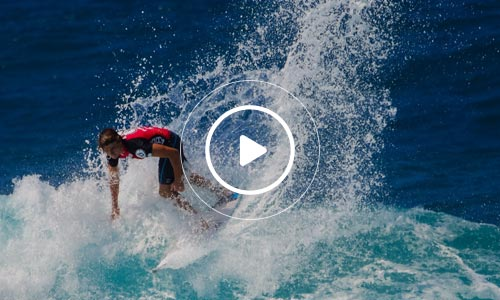
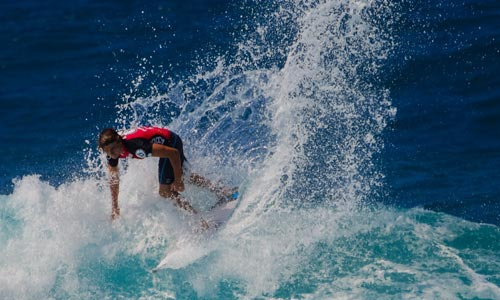
add team and change about us playbutton

diff --git a/src/assets/scss/base/_icomoon.scss b/src/assets/scss/base/_icomoon.scss
@@ -1,16 +1,16 @@
 @font-face {
   font-family: 'icomoon';
-  src:  url('../fonts/icomoon.eot?obxyd4');
-  src:  url('../fonts/icomoon.eot?obxyd4#iefix') format('embedded-opentype'),
-    url('../fonts/icomoon.ttf?obxyd4') format('truetype'),
-    url('../fonts/icomoon.woff?obxyd4') format('woff'),
-    url('../fonts/icomoon.svg?obxyd4#icomoon') format('svg');
+  src:  url('../fonts//icomoon.eot?4slwdr');
+  src:  url('../fonts//icomoon.eot?4slwdr#iefix') format('embedded-opentype'),
+    url('../fonts//icomoon.ttf?4slwdr') format('truetype'),
+    url('../fonts//icomoon.woff?4slwdr') format('woff'),
+    url('../fonts//icomoon.svg?4slwdr#icomoon') format('svg');
   font-weight: normal;
   font-style: normal;
 }
 
 [class^="icon-"], [class*=" icon-"] {
-  /* use !important to prevent issues with browser extensions that change fonts */
+  /* use !important to prevent issues with browser extensions that change ../fonts/ */
   font-family: 'icomoon' !important;
   speak: none;
   font-style: normal;
@@ -47,6 +47,9 @@
 }
 .icon-cross:before {
   content: "\ea0f";
+}
+.icon-play2:before {
+  content: "\ea15";
 }
 .icon-arrow-right2:before {
   content: "\ea3c";

diff --git a/src/assets/scss/layout/_about-us.scss b/src/assets/scss/layout/_about-us.scss
@@ -45,10 +45,45 @@
 
     .video-holder{
       margin-top: 18.625rem;
-      @include box-shadow(0, 1px, 5px, rgba(77, 77, 77, 0.5));
+      display: flex;
+      justify-content: center;
+      align-items: center;
+      overflow: hidden;
+
+      img{
+        @include transition(all, ease-in-out, 0.4s);
+      }
+
 
       @include media('screen', '<tablet') {
         margin-top: 0;
+      }
+
+      .play-button-holder{
+        position: absolute;
+        z-index: 10;
+        font-size: 4rem;
+      }
+
+      .play-button{
+        color: $white;
+        padding: 1rem;
+        border: 2px solid $white;
+        border-radius: 50%;
+        @include transition(all, ease-in-out, 0.4s);
+        @include box-shadow(0, 1px, 5px, rgba(77, 77, 77, 0.5));
+      }
+
+      &:hover{
+        img{
+          transform: scale(1.2);
+        }
+
+        .play-button{
+          color: $blue;
+          text-decoration: none;
+          border: 2px solid $blue;
+        }
       }
     }
   }

diff --git a/src/index.html b/src/index.html
@@ -99,12 +99,20 @@
           </div>
           <div class="col-md-6">
             <div class="video-holder">
+              <div class="play-button-holder">
+                <a href="#" class="play-button icon-play2"></a>
+              </div>
               <img src="assets/images/video-placeholder.jpg" alt="Video">
             </div>
           </div>
         </div>
       </div>
     </section>
+
+    <section class="team">
+
+    </section>
+
     <section class="news">
       <div class="container">
         <div class="heading">

diff --git a/src/assets/scss/styles.scss b/src/assets/scss/styles.scss
@@ -30,5 +30,6 @@ $breakpoints: (
 @import 'layout/nav';
 @import 'layout/intro';
 @import 'layout/about-us';
+@import 'layout/team';
 @import 'layout/news';
 @import 'layout/footer';

diff --git a/src/assets/scss/layout/_news.scss b/src/assets/scss/layout/_news.scss
@@ -17,7 +17,7 @@
     &:hover{
       @include box-shadow(0, 1px, 5px, rgba(77, 77, 77, 0.5));
 
-      .img-holder img{
+      img{
         transform: scale(1.2);
       }
     }

diff --git a/src/assets/scss/layout/_team.scss b/src/assets/scss/layout/_team.scss
@@ -1,0 +1,5 @@
+.team{
+  margin: 7.813em 0;
+
+  
+}
